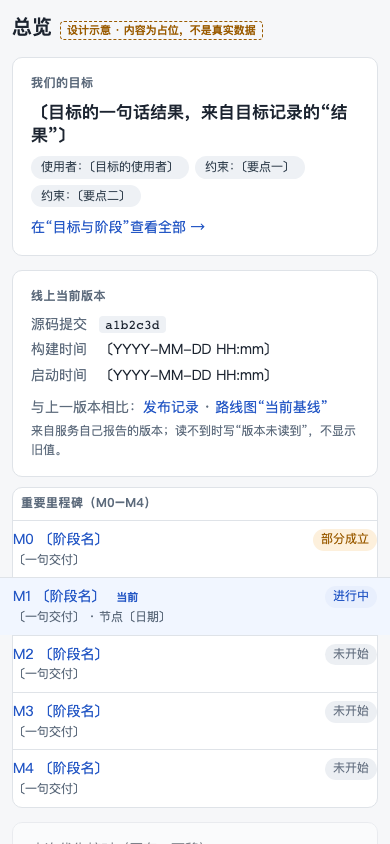
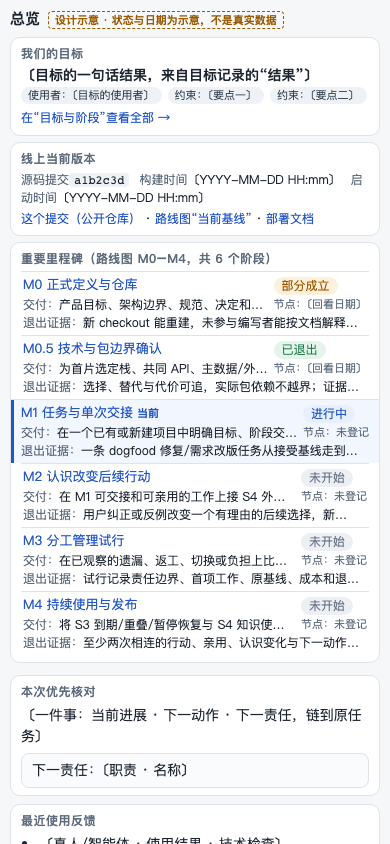
Overview top design rework: six roadmap phases, per-column data sources, public links, measured viewports
Revises the design for the independent confirmation: M0, M0.5, M1-M4 (six rows); per-column server sources with an explicit
"未登记" when a field does not exist (roadmap text from the deployed checkout, status/date from linked stages via an optional
phaseKey); public links only; 1440x900 and 390x844 first screens measured (no horizontal overflow, exit evidence kept on narrow
screens); the three lower blocks drawn. No page or API change.

diff --git a/docs/assets/frontend-pages/design/overview-top.html b/docs/assets/frontend-pages/design/overview-top.html
@@ -1,60 +1,84 @@
 <!doctype html><html lang="zh-CN"><head><meta charset="utf-8"><meta name="viewport" content="width=device-width,initial-scale=1">
+<title>总览顶部重做：设计示意</title>
 <style>
 :root{--bg:#f6f7f9;--card:#fff;--line:#dfe3e8;--fg:#1c2430;--mut:#5d6b7c;--pri:#2457c5;--ok:#1f7a4d;--warn:#9a5b00;--idle:#6b7686}
-*{box-sizing:border-box}body{margin:0;font:14px/1.55 -apple-system,"PingFang SC","Noto Sans SC",sans-serif;color:var(--fg);background:var(--bg)}
-.app{display:grid;grid-template-columns:220px 1fr;min-height:100vh}.nav{background:#fff;border-right:1px solid var(--line);padding:16px}
-.nav b{display:block;margin-bottom:12px}.nav span{display:block;padding:6px 8px;color:var(--mut)}.nav .on{background:#eaf0fc;color:var(--pri);border-radius:6px}
-main{padding:20px 28px;max-width:1180px;width:100%}
-.tag{display:inline-block;font-size:11px;color:var(--warn);border:1px dashed var(--warn);border-radius:4px;padding:0 6px;margin-left:8px}
-h1{font-size:20px;margin:0 0 14px}h2{font-size:12px;letter-spacing:.04em;color:var(--mut);margin:0 0 8px;font-weight:600}
-.card{background:var(--card);border:1px solid var(--line);border-radius:10px;padding:16px 18px}
-.goal .out{font-size:20px;line-height:1.4;font-weight:600;margin:0 0 8px}
-.chips{display:flex;flex-wrap:wrap;gap:6px;margin:6px 0 10px}.chip{background:#eef1f5;border-radius:999px;padding:2px 10px;font-size:12px;color:#33414f}
-a{color:var(--pri);text-decoration:none}.row2{display:grid;grid-template-columns:300px 1fr;gap:14px;margin-top:14px}
-.ver dl{margin:0;display:grid;grid-template-columns:auto 1fr;gap:4px 12px}.ver dt{color:var(--mut)}.ver dd{margin:0}.ver code{font:13px ui-monospace,monospace;background:#eef1f5;padding:1px 6px;border-radius:4px}
-.ms{padding:6px 0 0}.ms table{width:100%;border-collapse:collapse}.ms th{font-size:12px;color:var(--mut);text-align:left;font-weight:500;padding:4px 8px}
-.ms td{padding:7px 8px;border-top:1px solid var(--line);vertical-align:top}.ms tr.cur td{background:#f1f6ff}.ms tr.cur td:first-child{box-shadow:inset 3px 0 var(--pri)}
-.badge{font-size:12px;padding:1px 8px;border-radius:999px;white-space:nowrap}.s-done{background:#e4f4eb;color:var(--ok)}.s-prog{background:#e8effd;color:var(--pri)}.s-part{background:#fdf0dc;color:var(--warn)}.s-todo{background:#eceff3;color:var(--idle)}
-.cur-mark{font-size:11px;color:var(--pri);font-weight:600;margin-left:6px}.mut{color:var(--mut)}
-.below{display:grid;grid-template-columns:1fr 1fr;gap:14px;margin-top:14px;opacity:.55}.below .card{height:92px}
-.note{margin-top:14px;font-size:12px;color:var(--mut)}
-.m-list{display:none}
+*{box-sizing:border-box}html,body{margin:0}body{font:14px/1.5 -apple-system,"PingFang SC","Noto Sans SC",sans-serif;color:var(--fg);background:var(--bg);overflow-x:hidden}
+.app{display:grid;grid-template-columns:200px minmax(0,1fr);min-height:100vh}.nav{background:#fff;border-right:1px solid var(--line);padding:14px}
+.nav b{display:block;margin-bottom:10px}.nav span{display:block;padding:5px 8px;color:var(--mut)}.nav .on{background:#eaf0fc;color:var(--pri);border-radius:6px}
+main{padding:14px 24px 28px;min-width:0}
+.tag{display:inline-block;font-size:11px;color:var(--warn);border:1px dashed var(--warn);border-radius:4px;padding:0 6px;margin-left:8px;vertical-align:middle}
+h1{font-size:18px;margin:0 0 10px}h2{font-size:12px;letter-spacing:.04em;color:var(--mut);margin:0 0 6px;font-weight:600}
+.card{background:var(--card);border:1px solid var(--line);border-radius:10px;padding:12px 16px;min-width:0}
+.out{font-size:18px;line-height:1.35;font-weight:600;margin:0 0 6px;overflow-wrap:anywhere}
+.chips{display:flex;flex-wrap:wrap;gap:6px;margin:4px 0 6px}.chip{background:#eef1f5;border-radius:999px;padding:1px 9px;font-size:12px;color:#33414f}
+a{color:var(--pri);text-decoration:none}.mut{color:var(--mut)}
+.row2{display:grid;grid-template-columns:250px minmax(0,1fr);gap:12px;margin-top:12px}
+dl{margin:0;display:grid;grid-template-columns:auto 1fr;gap:2px 10px}dt{color:var(--mut)}dd{margin:0;min-width:0;overflow-wrap:anywhere}code{font:12px ui-monospace,monospace;background:#eef1f5;padding:0 5px;border-radius:4px}
+.links{margin:8px 0 0;font-size:13px}
+.ms .hd,.ms .r{display:grid;grid-template-columns:150px minmax(0,1.2fr) minmax(0,1.5fr) 86px 96px;gap:0 10px;align-items:start}
+.ms .hd{font-size:12px;color:var(--mut);padding:2px 8px}
+.ms .r{padding:5px 8px;border-top:1px solid var(--line)}.ms .r.cur{background:#f1f6ff;box-shadow:inset 3px 0 var(--pri)}
+.cl{display:-webkit-box;-webkit-line-clamp:2;-webkit-box-orient:vertical;overflow:hidden;font-size:13px;overflow-wrap:anywhere}
+.badge{font-size:12px;padding:0 8px;border-radius:999px;white-space:nowrap;display:inline-block}
+.s-done{background:#e4f4eb;color:var(--ok)}.s-prog{background:#e8effd;color:var(--pri)}.s-part{background:#fdf0dc;color:var(--warn)}.s-todo{background:#eceff3;color:var(--idle)}.s-none{background:#fff;color:var(--idle);border:1px dashed #b9c1cc}
+.cur-mark{font-size:11px;color:var(--pri);font-weight:600;margin-left:4px}
+.lbl{display:none}
+.below{display:grid;grid-template-columns:1fr 1fr;gap:12px;margin-top:12px}.below .wide{grid-column:1/3}
+.below h2{margin-bottom:4px}.below ul{margin:0;padding-left:18px}.below li{margin:2px 0}
+.fact{border:1px solid var(--line);border-radius:8px;padding:6px 10px;margin-top:6px;background:#fafbfc}
 @media (max-width:700px){
- .app{grid-template-columns:1fr}.nav{display:none}main{padding:12px}
- .row2{grid-template-columns:1fr;gap:10px}.goal .out{font-size:17px}
- .ms table{display:none}.m-list{display:block}
- .m-item{display:grid;grid-template-columns:1fr auto;gap:0 8px;padding:8px 0;border-top:1px solid var(--line)}
- .m-item .d{grid-column:1/3;font-size:12px;color:var(--mut);display:-webkit-box;-webkit-line-clamp:2;-webkit-box-orient:vertical;overflow:hidden}
- .m-item.cur{background:#f1f6ff;margin:0 -18px;padding:8px 18px;box-shadow:inset 3px 0 var(--pri)}
- .below{grid-template-columns:1fr}.ver dl{grid-template-columns:auto 1fr}
+ .app{grid-template-columns:minmax(0,1fr)}.nav{display:none}main{padding:8px 10px 20px}
+ h1{font-size:15px;margin-bottom:6px}h2{margin-bottom:3px}.card{padding:7px 10px}.out{font-size:14px;margin-bottom:3px}
+ .chips{flex-wrap:nowrap;overflow:hidden;margin:2px 0 3px}.chip{white-space:nowrap;font-size:11px;padding:0 7px}
+ #goal a{font-size:12px}
+ .row2{grid-template-columns:minmax(0,1fr);gap:6px;margin-top:6px}
+ dl{grid-template-columns:repeat(3,auto);justify-content:start;gap:0 6px;font-size:12px}dt{grid-column:auto}dd{margin-right:6px}
+ dl{display:block}dl dt,dl dd{display:inline}dl dd{margin-right:10px}
+ .links{margin-top:3px;font-size:12px}
+ .ms .hd{display:none}
+ .ms .r{grid-template-columns:minmax(0,1fr) auto;grid-template-rows:auto auto auto;gap:0 6px;padding:3px 2px}
+ .ms .r>.t{grid-column:1;grid-row:1;font-size:13px}.ms .r>.s{grid-column:2;grid-row:1}
+ .ms .r>.d{grid-column:1;grid-row:2}.ms .r>.dt{grid-column:2;grid-row:2;font-size:11px;text-align:right;white-space:nowrap}
+ .ms .r>.e{grid-column:1/3;grid-row:3}
+ .cl{-webkit-line-clamp:1;font-size:12px}.lbl{display:inline;color:var(--mut)}
+ .ms .r.cur{margin:0 -10px;padding:3px 10px}
+ .below{grid-template-columns:minmax(0,1fr);gap:8px}.below .wide{grid-column:1}
 }
 </style></head><body><div class="app">
 <nav class="nav"><b>evoLoop</b><span>任务</span><span class="on">总览</span><span>目标与阶段</span><span>交付</span><span>日程</span></nav>
 <main>
-<h1>总览<span class="tag">设计示意 · 内容为占位，不是真实数据</span></h1>
-<section class="card goal" aria-label="目标"><h2>我们的目标</h2>
- <p class="out">〔目标的一句话结果，来自目标记录的“结果”〕</p>
- <div class="chips"><span class="chip">使用者：〔目标的使用者〕</span><span class="chip">约束：〔要点一〕</span><span class="chip">约束：〔要点二〕</span></div>
+<h1>总览<span class="tag" id="note"></span></h1>
+<section class="card" id="goal" aria-label="目标"><h2>我们的目标</h2>
+ <p class="out" id="goalOut"></p><div class="chips" id="goalChips"></div>
  <a href="#">在“目标与阶段”查看全部 →</a></section>
 <div class="row2">
- <section class="card ver" aria-label="当前版本"><h2>线上当前版本</h2>
+ <section class="card" id="version" aria-label="线上当前版本"><h2>线上当前版本</h2>
   <dl><dt>源码提交</dt><dd><code>a1b2c3d</code></dd><dt>构建时间</dt><dd>〔YYYY-MM-DD HH:mm〕</dd><dt>启动时间</dt><dd>〔YYYY-MM-DD HH:mm〕</dd></dl>
-  <p class="mut" style="margin:10px 0 4px">与上一版本相比：<a href="#">发布记录</a> · <a href="#">路线图“当前基线”</a></p>
-  <p class="mut" style="margin:0;font-size:12px">来自服务自己报告的版本；读不到时写“版本未读到”，不显示旧值。</p></section>
- <section class="card ms" aria-label="里程碑"><h2 style="padding:0 8px">重要里程碑（M0–M4）</h2>
-  <table><thead><tr><th>阶段</th><th>要交付什么</th><th>退出证据</th><th>状态</th><th>节点日期</th></tr></thead><tbody>
-   <tr><td><a href="#">M0 〔阶段名〕</a></td><td>〔一句交付〕</td><td class="mut">〔一句证据〕</td><td><span class="badge s-part">部分成立</span></td><td class="mut">未登记</td></tr>
-   <tr class="cur"><td><a href="#">M1 〔阶段名〕</a><span class="cur-mark">当前</span></td><td>〔一句交付〕</td><td class="mut">〔一句证据〕</td><td><span class="badge s-prog">进行中</span></td><td class="mut">〔已登记日期〕</td></tr>
-   <tr><td><a href="#">M2 〔阶段名〕</a></td><td>〔一句交付〕</td><td class="mut">〔一句证据〕</td><td><span class="badge s-todo">未开始</span></td><td class="mut">未登记</td></tr>
-   <tr><td><a href="#">M3 〔阶段名〕</a></td><td>〔一句交付〕</td><td class="mut">〔一句证据〕</td><td><span class="badge s-todo">未开始</span></td><td class="mut">未登记</td></tr>
-   <tr><td><a href="#">M4 〔阶段名〕</a></td><td>〔一句交付〕</td><td class="mut">〔一句证据〕</td><td><span class="badge s-todo">未开始</span></td><td class="mut">未登记</td></tr></tbody></table>
-  <div class="m-list">
-   <div class="m-item"><a href="#">M0 〔阶段名〕</a><span class="badge s-part">部分成立</span><span class="d">〔一句交付〕</span></div>
-   <div class="m-item cur"><a href="#">M1 〔阶段名〕 <span class="cur-mark">当前</span></a><span class="badge s-prog">进行中</span><span class="d">〔一句交付〕 · 节点〔日期〕</span></div>
-   <div class="m-item"><a href="#">M2 〔阶段名〕</a><span class="badge s-todo">未开始</span><span class="d">〔一句交付〕</span></div>
-   <div class="m-item"><a href="#">M3 〔阶段名〕</a><span class="badge s-todo">未开始</span><span class="d">〔一句交付〕</span></div>
-   <div class="m-item"><a href="#">M4 〔阶段名〕</a><span class="badge s-todo">未开始</span><span class="d">〔一句交付〕</span></div></div></section>
+  <p class="links"><a href="#">这个提交（公开仓库）</a> · <a href="#">路线图“当前基线”</a> · <a href="#">部署文档</a></p></section>
+ <section class="card ms" id="milestones" aria-label="里程碑"><h2>重要里程碑（路线图 M0–M4，共 6 个阶段）</h2>
+  <div class="hd"><span>阶段</span><span>要交付什么</span><span>退出证据</span><span>状态</span><span>节点日期</span></div>
+  <div id="rows"></div></section>
 </div>
-<div class="below"><div class="card">本次优先核对（原有，下移）</div><div class="card">最近使用反馈（原有，下移）</div></div>
-<p class="note">下方保留：本次优先核对 · 最近使用反馈 · 当前工作；右栏照旧。</p>
-</main></div></body></html>
+<div class="below" id="below">
+ <section class="card"><h2>本次优先核对</h2><p style="margin:0">〔一件事：当前进展 · 下一动作 · 下一责任，链到原任务〕</p>
+  <div class="fact">下一责任：〔职责 · 名称〕</div></section>
+ <section class="card"><h2>最近使用反馈</h2><ul><li>〔真人/智能体 · 使用结果 · 技术检查〕</li><li>〔上一条反馈〕</li></ul></section>
+ <section class="card wide"><h2>当前工作</h2><ul><li>〔进行中任务一 · 承接者 · 下一项〕</li><li>〔进行中任务二 · 承接者〕</li><li>〔进行中任务三 · 承接者〕</li></ul>
+  <a href="#">完整列表在任务页 →</a></section>
+</div>
+</main></div>
+<script>
+const phases=[{"id": "M0", "title": "正式定义与仓库", "deliver": "产品目标、架构边界、规范、决定和可重建文档站；供后续切片共用同一判断依据", "exit": "新 checkout 能重建，未参与编写者能按文档解释一个目标→任务→使用→下一步的场景并定位边界；误解进入修订，不用页数宣布完成"}, {"id": "M0.5", "title": "技术与包边界确认", "deliver": "为首片选定栈、共同 API、主数据/外部正文权威和进程依赖；OpenViking 0.5.1 的已测读写与未测语义索引、生产部署分开记录", "exit": "选择、替代与代价可追，实际包依赖不越界；证据不足时缩小实现范围或保留候选，不为填架构图预造能力"}, {"id": "M1", "title": "任务与单次交接", "deliver": "在一个已有或新建项目中明确目标、阶段交付、学习问题、消费者和授权，接受有界任务；固定 Task/Document、Git 引用、真实运行时和恢复已在旧机上试用，飞书投影另行延后", "exit": "一条 dogfood 修复/需求改版任务从接受基线走到真实交付与目标消费者使用；重复请求、结果未知和重启可查可恢复。若仅数据库或页面通过，保留为切片成果；若交接/亲用失败，记录责任、缺项与返工，不宣布 M1 完成。飞书实连不作为当前试用退出条件"}, {"id": "M2", "title": "认识改变后续行动", "deliver": "在 M1 可交接和可亲用的工作上接 S4 外置 Wiki 的来源、反例、修订、受控发布与独立消费；简单材料可直接读", "exit": "用户纠正或反例改变一个有理由的后续选择，新 session 正确采用指定修订并完成实际任务；与直接读材料比较效果、总成本和失效案例。若检索命中但未采用或收益不成立，先修订知识/方法或继续直接读，不以 Wiki 存量通过"}, {"id": "M3", "title": "分工管理试行", "deliver": "在已观察的遗漏、返工、切换或负担上比较改方法、续开会话、临时专项和新职责；同 Role 补实例由 Leader 按每日评估一次一人地决定（DEC-038），仅持续独立缺口才试行新 Role", "exit": "试行记录责任边界、首项工作、原基线、成本和退出条件；相近工作中核实际遗漏、等待、返工与维护成本。收益不成立就调整或撤回，并交接未完任务，不因创建角色判成功"}, {"id": "M4", "title": "持续使用与发布", "deliver": "将 S3 到期/重叠/暂停恢复与 S4 知识使用纳入受管项目试点；建立常在线运行、备份/回退、文档发布和可观察的日常入口", "exit": "至少两次相连的行动、亲用、认识变化与下一动作能互相追证；日常讨论与定时检查不漏、不重、不造空任务，真实使用、成本和用户反馈经阶段回看后再扩大。若可靠性或净收益不足，缩小试点、补恢复或停止该路线；不以部署在线代替产品有效"}];
+const state=new URLSearchParams(location.search).get("state")||"linked";
+// linked: sample statuses as they would read once stages are linked to phases. day1: nothing linked yet (the real situation on day one).
+const sample={"M0":["part","部分成立","〔回看日期〕"],"M0.5":["done","已退出","〔回看日期〕"],"M1":["prog","进行中","未登记"],"M2":["todo","未开始","未登记"],"M3":["todo","未开始","未登记"],"M4":["todo","未开始","未登记"]};
+document.getElementById("note").textContent=state==="linked"?"设计示意 · 状态与日期为示意，不是真实数据":"设计示意 · 第一天：阶段尚未关联，如实写“未登记”";
+document.getElementById("goalOut").textContent=state==="linked"?"〔目标的一句话结果，来自目标记录的“结果”〕":"尚未登记目标";
+document.getElementById("goalChips").innerHTML=state==="linked"?'<span class="chip">使用者：〔目标的使用者〕</span><span class="chip">约束：〔要点一〕</span><span class="chip">约束：〔要点二〕</span>':'<span class="chip">在“目标与阶段”登记后显示结果、使用者与约束</span>';
+document.getElementById("rows").innerHTML=phases.map(p=>{
+  const s=state==="linked"?sample[p.id]:["none","未登记","未登记"];
+  const cur=state==="linked"&&p.id==="M1";
+  return `<div class="r${cur?" cur":""}"><div class="t"><a href="#">${p.id} ${p.title}</a>${cur?'<span class="cur-mark">当前</span>':""}</div>
+   <div class="d cl"><span class="lbl">交付：</span>${p.deliver}</div><div class="e cl"><span class="lbl">退出证据：</span>${p.exit}</div>
+   <div class="s"><span class="badge s-${s[0]}">${s[1]}</span></div><div class="dt"><span class="lbl">节点：</span><span class="mut">${s[2]}</span></div></div>`}).join("");
+</script></body></html>

diff --git a/docs/frontend/overview-top-design.md b/docs/frontend/overview-top-design.md
@@ -1,56 +1,84 @@
 # 总览顶部重做：设计（待确认）
 
-Task `e5af6765`。使用者要从总览一眼看清三件事：目标是什么、线上版本是什么、重要里程碑做到哪。本文是实现前的设计，**需求 Session 按授权确认后才实现**；确认前页面和接口都没有改动。设计图里的文字是占位，不是真实数据。
+Task `e5af6765`（2026-11-12 返工）。使用者要从总览一眼看清三件事：目标是什么、线上版本是什么、重要里程碑做到哪。本文是实现前的设计，**由受管验收 Session `acceptance-claude-agent` 确认后才实现**；确认前页面、`/api/version` 和发布脚本都没有改动。图中带“〔…〕”的文字是占位，状态与日期只是示意。
 
 ## 设计图
 
-![总览顶部，1440 宽](../assets/frontend-pages/design/overview-top-1440.png)
+1440×900，首屏（示意状态：阶段已与服务端的阶段关联）：
 
-![总览顶部，390 宽](../assets/frontend-pages/design/overview-top-390.png)
+![总览，1440×900 首屏](../assets/frontend-pages/design/overview-top-1440.png)
 
-静态源文件：[overview-top.html](../assets/frontend-pages/design/overview-top.html)（浏览器直接打开，缩放到 1440 或 390 宽即可看到两种排版）。
+390×844，首屏：
 
-## 信息层次
+![总览，390×844 首屏](../assets/frontend-pages/design/overview-top-390.png)
 
-自上而下，一屏内先答三个问题，再接原有内容：
+整页（含下方三块）：[1440](../assets/frontend-pages/design/overview-top-1440-full.png)、[390](../assets/frontend-pages/design/overview-top-390-full.png)。第一天的真实状态（阶段还没关联、目标未登记，全部如实写“未登记”）：[1440](../assets/frontend-pages/design/overview-top-1440-day1.png)、[390](../assets/frontend-pages/design/overview-top-390-day1.png)。静态源：[overview-top.html](../assets/frontend-pages/design/overview-top.html)（`?state=linked` 或 `?state=day1`）；实测数据：[overview-top-measure.json](../assets/frontend-pages/design/overview-top-measure.json)。
 
-1. **目标**（整行）：一句话结果用大字；使用者和约束要点是小标签；一个链接到“目标与阶段”。
-2. **线上当前版本**（左，窄）：源码提交（短哈希）、构建时间、启动时间；“与上一版本相比”给“发布记录”和路线图“当前基线”两个链接。
-3. **里程碑 M0–M4**（右，宽）：一行一个，列为阶段名（可点，到“目标与阶段”对应阶段）、要交付什么、退出证据、状态、节点日期。当前所在里程碑整行浅色底加左侧色条并写“当前”。
-4. 原有的“本次优先核对”“最近使用反馈”“当前工作”照旧下移；右栏不变。
+## 版面（自上而下）
 
-1440 宽（900 高窗口）里目标、版本和五行里程碑都在首屏，里程碑底边约在 475 px。390 宽里目标、版本、五个里程碑在 844 高的窗口内（里程碑底边约 808 px），不用滚动就能看到；窄屏里程碑改成两行一项：第一行阶段名与状态，第二行交付（最多两行）和节点日期，退出证据收进“目标与阶段”页，当前里程碑同样突出。
+1. **目标**（整行）：一句话结果、使用者、约束要点，链到“目标与阶段”。
+2. **线上当前版本**（1440 宽在左，390 宽在目标下面）：源码提交、构建时间、**启动时间**（不叫发布时间），三个公开链接。
+3. **里程碑**：路线图实际的 **6 个阶段**：M0、M0.5、M1、M2、M3、M4（Task 原文的“五个”是笔误）。每个阶段一行：阶段名（可点）、要交付什么、退出证据、状态、节点日期。当前阶段整行浅底加左侧色条并写“当前”，**只突出一个**。
+4. **下方三块**（原有，完整画出）：本次优先核对、最近使用反馈、当前工作，内容与现有页面一致，只是下移。右栏不变。
 
-## 数据从哪来（前端不写死）
+窄屏（≤700 px）每个阶段仍是同一行数据，只换排法：第一行阶段名和状态，第二行交付（一行截断）和节点日期，第三行退出证据（一行截断）。**没有阶段被隐藏，退出证据没有收进二级页面**；缺字段写“未登记”。
 
-| 内容 | 来源 | 说明 |
+## 数据从哪来（逐列）
+
+里程碑不是现有目标与阶段页里的东西：路线图的 M0–M4 是 evoLoop 自己的实施阶段（见 `docs/roadmap.md`），目标与阶段页的“阶段”是项目目标下的阶段，只有交付、学习问题、状态和回看记录，没有名称、退出证据和日期字段。设计据此让**路线图提供文字，服务端的阶段提供状态与日期**，两者用一个可选关联连起来；没有关联就写“未登记”，不猜。
+
+| 列 | 服务端只读来源 | 缺字段时 |
 | --- | --- | --- |
-| 目标一句话、使用者、约束 | 现有目标记录（`/goals`） | 依赖 Task `6672d144` 先登记；目标为空时写“尚未登记目标”并给登记入口，不留空白 |
-| 里程碑 M0–M4 | 同一目标下按顺序的阶段（`/stages`），状态与日期来自阶段与阶段回看 | 状态词：未开始、进行中、部分成立、已退出，只用阶段回看已有的结论映射；没有日期写“未登记”，不推算、不编造 |
-| 版本 | **新增只读接口** `GET /api/version` | 见下 |
+| 阶段名 | 路线图阶段表第一列（`docs/roadmap.md`，随部署的同一提交读取） | 路线图读不到：整块写“路线图读不到”，不显示旧值 |
+| 要交付什么 | 路线图第二列 | 同上 |
+| 退出证据 | 路线图第三列（版面按行数截断，完整文字在点开的路线图里） | 同上；某行该列为空写“未登记” |
+| 状态 | 关联的阶段（`Stage.state` 与它最近一次 `StageReview`），映射见下 | 没有关联的阶段：“未登记” |
+| 节点日期 | 关联阶段最近一次回看的日期（写作“回看于 日期”） | “未登记”；不从路线图的文字里推日期 |
+| 当前阶段 | 恰有一个关联阶段是 `active` 时，它对应的那一行 | 没有或有多个：不突出，页眉写“当前阶段未登记”，不猜 |
 
-### 新增接口
+**状态映射**（与目标与阶段页同一份数据，同一套词）：`proposed` → 未开始；`active` → 进行中；`reviewed` 且最近回看里 `adopted` 非空、`gap` 或 `rejected` 非空 → 部分成立；`reviewed` 且 `gap` 为空 → 已退出；其余 `reviewed` → 已回看（结论见阶段页）。“部分成立”只在回看记录真的写了采纳和缺口时才出现。
 
-`GET /api/version` 返回 `{ commit, builtAt, startedAt }`，不含任何路径、环境变量或配置。`commit` 与 `builtAt` 由发布流程的构建步骤写入随发布目录一起放的 `build-info.json`，服务启动时读取；`startedAt` 是进程启动时间。没有 `build-info.json`（例如开发运行）时返回 `{ commit: null, builtAt: null, startedAt }`，页面写“版本未读到”，不显示旧值。工作台读取失败时同样写“版本未读到”并可重读。
+**新增只读投影** `GET /api/projects/:projectId/milestones`（项目读权限）：返回 `{ source: { commit }, phases: [{ id, title, deliver, exit, stage: { id, state, review: { adopted, gap, createdAt } } | null }] }`。路线图由服务启动时读取已部署目录里的 `docs/roadmap.md`（与版本接口同一提交），不放进文档表，也不在前端写死；页面和“目标与阶段”页读同一份阶段，所以两页不会各算一遍。
+
+**需要的数据改动（待确认）**：阶段要能关联到路线图的阶段，建议给阶段加一个可选字段 `phaseKey`（如 `M1`，在“目标与阶段”页的阶段表单里填），需要一个小迁移。不用它就只能靠标题文字匹配，太脆弱，设计不采用。
+
+## 版本块
+
+- 字段：源码提交（短哈希）、构建时间、启动时间，来自新增只读接口 `GET /api/version`：`{ commit, builtAt, startedAt }`。**不含路径、环境变量或任何配置**。`commit`、`builtAt` 由发布流程的构建步骤写入随发布目录放置的 `build-info.json`，`startedAt` 是进程启动时间；没有构建信息（开发运行）时 `commit`、`builtAt` 为 null，页面写“版本未读到”，不显示旧值。
+- 链接**都指向公开页面**：这个提交（公开仓库的提交页）、路线图“当前基线”（`docs/roadmap.md#当前基线`）、部署文档（`docs/development/local-run.md`）。仓库地址沿用工作台现有的文档基址常量。不链接私有的 `release-ID.json`。
+- 发布负责人已说明启动时间不等于发布时间，所以字段名写“启动时间”；要“发布时间”需要发布流程另写一个字段，不在本轮。
+
+## 视口与实测
+
+两种视口各用静态源页面在 Chromium 里实测（`overview-top-measure.json`）。首屏要求：目标、版本、全部 6 个阶段和当前阶段都在首屏，页面没有水平溢出。
+
+| 视口 | 状态 | 目标底边 | 版本底边 | 里程碑底边（最后一行底边） | `scrollWidth`/`clientWidth` | 超出右边界的元素 | 整页高度 |
+| --- | --- | --- | --- | --- | --- | --- | --- |
+| 1440×900 | 示意（已关联） | 178 | 562 | 562（549） | 1440/1440 | 0 | 900（下方三块也在 900 内） |
+| 1440×900 | 第一天（未登记） | 178 | 562 | 562（549） | 1440/1440 | 0 | 900 |
+| 390×844 | 示意（已关联） | 136 | 236 | 663（655） | 390/390 | 0 | 1044 |
+| 390×844 | 第一天（未登记） | 136 | 236 | 663（655） | 390/390 | 0 | 1044 |
+
+390 宽里里程碑底边 663 < 844，6 行都在首屏，下方三块在首屏下方、向下滚动可见（它们本来就是“首屏之后”的内容）。1440 宽时整页高度等于视口，三块下方内容也不需要滚动。
 
 ## 状态
 
 | 情况 | 页面写什么 |
 | --- | --- |
-| 读取中 | 各块各自写“正在读取…”，不互相阻塞 |
-| 目标未登记 | “尚未登记目标”+ 登记入口 |
-| 版本接口读不到或无构建信息 | “版本未读到”，不写旧版本 |
-| 阶段不足五个或没有 M 编号 | 只列读到的阶段，写“已读到 N 个阶段”，不补空行 |
-| 里程碑状态与“目标与阶段”页 | 同一份阶段数据，两页不各算一遍 |
+| 读取中 | 各块各自写“正在读取…”，互不阻塞 |
+| 目标未登记 | “尚未登记目标”，给“目标与阶段”入口 |
+| 版本读不到 | “版本未读到” |
+| 路线图读不到 | 里程碑块写“路线图读不到”，版本和目标不受影响 |
+| 阶段未关联 | 状态与节点日期写“未登记”，不突出任何阶段，页眉写“当前阶段未登记” |
+| 有多个进行中的关联阶段 | 不突出，写“有多个进行中的阶段”，不猜哪个是当前 |
 
 ## 需要确认的几点
 
-1. **里程碑的数据形态**：本设计假设 M0–M4 是该目标下的阶段（由 `6672d144` 登记），状态与日期来自阶段回看。若里程碑要另外的记录类型，需要先改数据，这个设计的右栏仍然适用。
-2. **“发布时间”**：服务只知道构建时间和启动时间；发布流程把构建提交放到线上的时刻目前没有写给服务。本设计把第三项写作“启动时间”，不叫“发布时间”。若要“发布时间”，需要发布流程再写一个字段。
-3. **“与上一版本相比主要变了什么”**：本轮只给“发布记录”和路线图“当前基线”两个链接，不由页面计算两个版本的差异。
-4. **接口是否需要登录**：`/api/version` 只含提交、构建时间和启动时间，设计按与 `/health` 一样不要求登录；若需要登录，页面写法不变。
-5. 构建步骤写 `build-info.json` 要改发布脚本（`scripts/release/`），会和发布窗口协调，不在本设计 PR 里。
+1. 路线图文字由服务启动时读已部署目录的 `docs/roadmap.md`，状态与日期来自关联的阶段；是否同意加可选字段 `phaseKey`（小迁移），以及“没有关联就写未登记”的第一天表现。
+2. 状态映射中“部分成立”“已退出”的判定规则（见上）是否符合目标与阶段页对回看记录的用法。
+3. `/api/version` 按与 `/health` 一样不要求登录设计（只含提交与构建/启动时间）；需要登录时页面写法不变。
+4. 构建写 `build-info.json` 要改发布脚本（`scripts/release/`），不在本轮。
 
-## 实现范围（确认后）
+## 实现范围（确认后另开 Run）
 
-接口与 `build-info.json` 的写入；总览顶部三块和测试夹具；两种宽度截图；总览页文档更新。验收者在正式实例上核对版本与实际部署的提交一致。
+`/api/version` 与 `build-info.json`；`/milestones` 投影与阶段的可选 `phaseKey`；总览顶部三块和测试夹具；两种宽度截图；总览页文档更新。最终验收仍由 `acceptance-claude-agent` 在正式实例上做。
